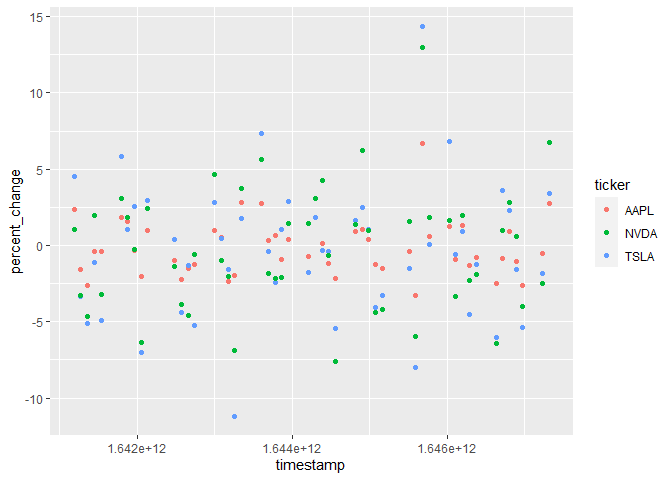
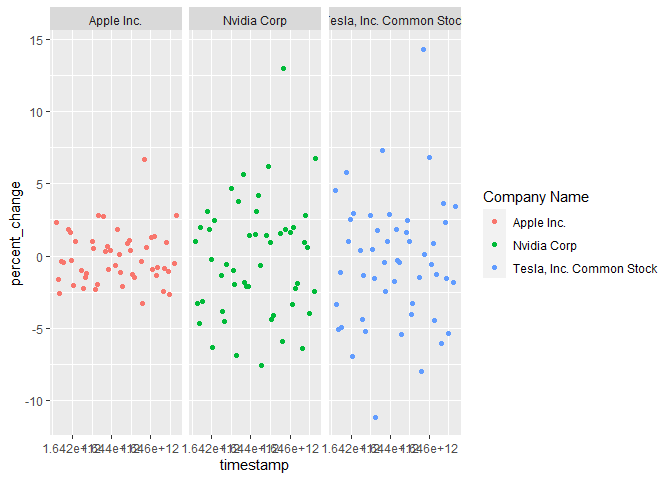
Changed scatter plot

diff --git a/README.html b/README.html
@@ -1695,8 +1695,11 @@ carefully we can see that there is a certain correlation in the returns
 and on most days the movement for all 3 technology stocks is in the same
 direction of either gaining or losing</p>
 <div class="sourceCode" id="cb27"><pre class="sourceCode r"><code class="sourceCode r"><span id="cb27-1"><a href="#cb27-1" aria-hidden="true" tabindex="-1"></a>df_comb <span class="ot">&lt;-</span> df_combined <span class="sc">%&gt;%</span> <span class="fu">mutate</span>(<span class="at">percent_change =</span> <span class="fu">round</span>(((close_price<span class="sc">-</span>open_price)<span class="sc">/</span>open_price)<span class="sc">*</span><span class="dv">100</span>,<span class="dv">2</span>))</span>
-<span id="cb27-2"><a href="#cb27-2" aria-hidden="true" tabindex="-1"></a><span class="fu">ggplot</span>(df_comb, <span class="fu">aes</span>(<span class="at">x=</span>timestamp, <span class="at">y=</span>percent_change, <span class="at">color=</span>ticker)) <span class="sc">+</span> <span class="fu">geom_point</span>()</span></code></pre></div>
[1 lines of base64/hex data omitted]
+<span id="cb27-2"><a href="#cb27-2" aria-hidden="true" tabindex="-1"></a><span class="fu">ggplot</span>(df_comb, <span class="fu">aes</span>(<span class="at">x=</span>timestamp, <span class="at">y=</span>percent_change,<span class="at">color=</span>company_name)) <span class="sc">+</span> </span>
+<span id="cb27-3"><a href="#cb27-3" aria-hidden="true" tabindex="-1"></a><span class="fu">geom_point</span>()<span class="sc">+</span></span>
+<span id="cb27-4"><a href="#cb27-4" aria-hidden="true" tabindex="-1"></a><span class="fu">facet_grid</span>(<span class="at">cols =</span> <span class="fu">vars</span>(company_name)) <span class="sc">+</span> </span>
+<span id="cb27-5"><a href="#cb27-5" aria-hidden="true" tabindex="-1"></a><span class="fu">scale_color_discrete</span>(<span class="at">name =</span> <span class="st">&quot;Company Name&quot;</span>)</span></code></pre></div>
[1 lines of base64/hex data omitted]
 
 </body>
 </html>

diff --git a/README.md b/README.md
@@ -1197,7 +1197,10 @@ direction of either gaining or losing
 
 ``` r
 df_comb <- df_combined %>% mutate(percent_change = round(((close_price-open_price)/open_price)*100,2))
-ggplot(df_comb, aes(x=timestamp, y=percent_change, color=ticker)) + geom_point()
+ggplot(df_comb, aes(x=timestamp, y=percent_change,color=company_name)) + 
+geom_point()+
+facet_grid(cols = vars(company_name)) + 
+scale_color_discrete(name = "Company Name")
 ```
 
 <img src="README_files/figure-gfm/6_5-1.png" style="display: block; margin: auto;" />
